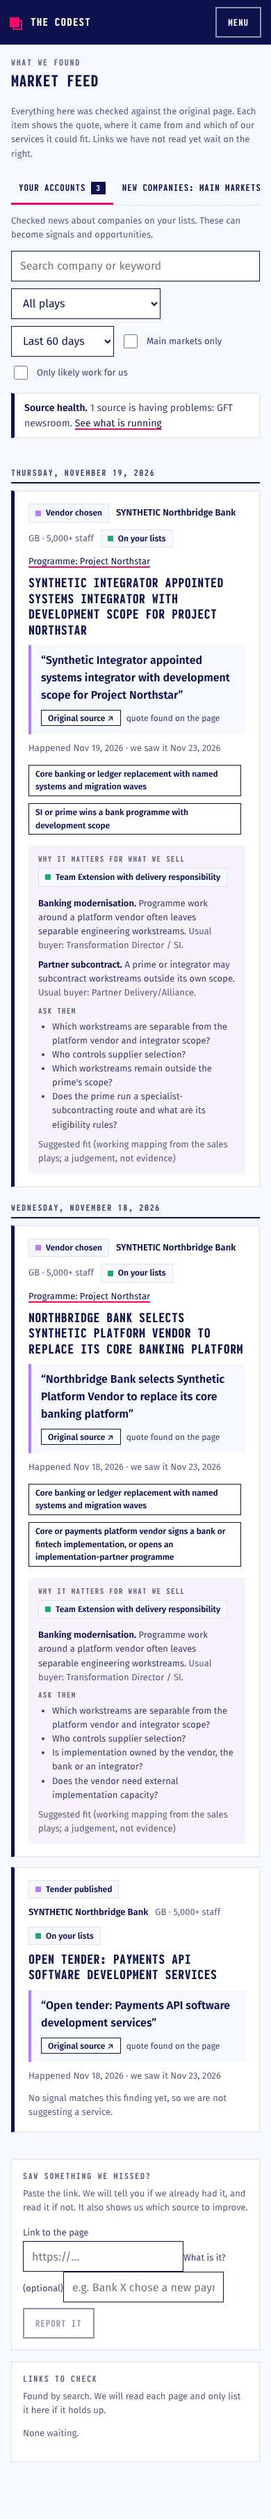
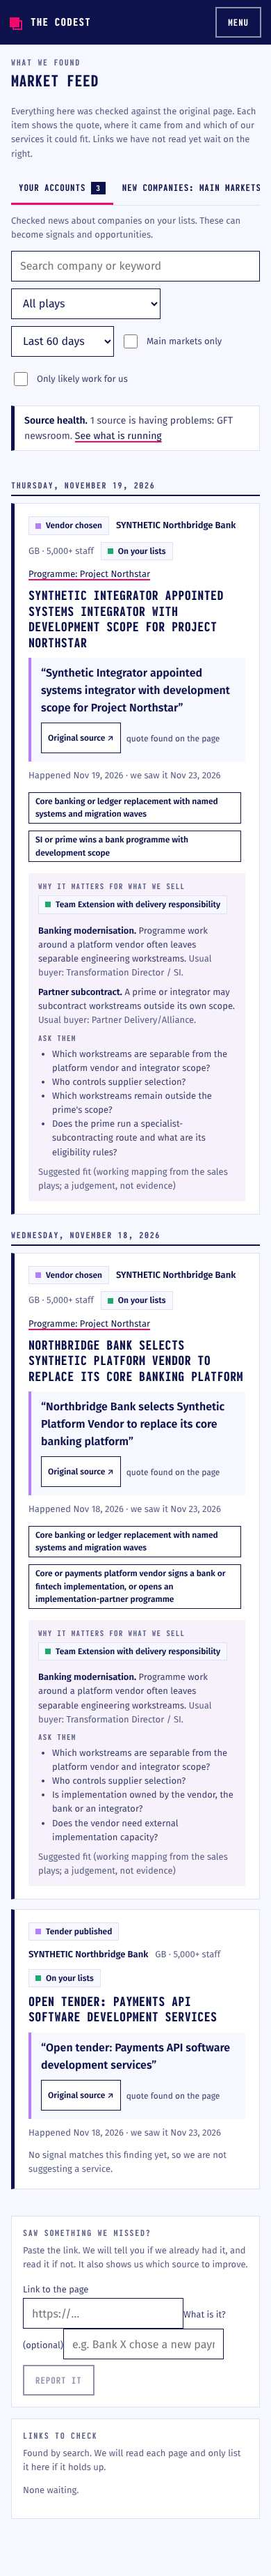
frontend: phone layout, 44px targets, quieter polling, Feed de-duplication
- Tables under 640px become stacked cards with labelled rows (Accounts, Today hot accounts
  and deadlines, Renewals suppliers); the old column-hiding rules are gone.
- Checkbox, star, chips, pills, tabs and sub-nav links have 44px hit areas on phone.
- Polling pauses while the browser tab is hidden.
- Feed shows the quote once when it repeats the headline.
- Today loading state reserves the hero height (layout shift 0.13 -> 0.04).
Build and type-check pass.

Claude-Session: https://claude.ai/code/session_01NLtKuu7bmFR7Yku9N5QKAP

diff --git a/frontend/src/pages/Accounts.tsx b/frontend/src/pages/Accounts.tsx
@@ -92,17 +92,17 @@ export function Accounts({ me }: { me?: { permissions: string[] } }) {
         <select id="lead-sort" aria-label="Sort" value={f.sort} onChange={(e) => set("sort", e.target.value)}><option value="score">Highest score</option><option value="recent">Latest signal</option><option value="size">Largest</option><option value="name">Name</option></select>
       </div>
       <Err e={err} />
-      <div className="card table-wrap flush"><table className="leads-table"><thead><tr><th><span className="sr">Select</span></th><th><span className="sr">Watch</span></th><th>Company</th><th>Region</th><th>Size</th><th title="Adds up recent checked signals. Different kinds count for more than repeats. Hot is 9 or more, warm 4 or more. It is not a probability.">Signal score</th><th>Signals</th><th>Latest signal</th><th>Came from</th></tr></thead><tbody>
+      <div className="card table-wrap flush"><table className="leads-table cards"><thead><tr><th><span className="sr">Select</span></th><th><span className="sr">Watch</span></th><th>Company</th><th>Region</th><th>Size</th><th title="Adds up recent checked signals. Different kinds count for more than repeats. Hot is 9 or more, warm 4 or more. It is not a probability.">Signal score</th><th>Signals</th><th>Latest signal</th><th>Came from</th></tr></thead><tbody>
         {d?.items.map((r: any) => <tr key={r.id}>
-          <td><input type="checkbox" aria-label={`Select ${r.name}`} checked={sel.has(r.id)} onChange={() => toggle(r.id)} /></td>
-          <td><button className="star" aria-pressed={r.watched} aria-label={r.watched ? `Stop watching ${r.name}` : `Watch ${r.name}`} title={r.watched ? "Watching: we re-read its site, news and jobs every week" : "Watch: re-read its site, news and jobs every week"} onClick={() => toggleWatch(r)}>{r.watched ? "★" : "☆"}</button></td>
-          <td><Link to={`/accounts/${r.id}`}>{r.name}</Link>{r.shortlist && <> <Badge kind="ok">Shortlist</Badge></>}<div className="small muted">{r.segment ?? "Segment not known"}{r.canonical_domain ? ` · ${r.canonical_domain}` : ""}</div></td>
-          <td>{r.country_code ?? "Not known"}<div className="small muted">{d.regions.find((x: any) => x.key === r.region)?.label ?? humanize(r.region)}</div></td>
-          <td>{r.employees?.toLocaleString() ?? "Not known"}{r.employees_uncertain && <> <span title="Estimated headcount" className="small muted">(estimate)</span></>}<div className="small muted">{ICP_NAMES[r.icp] ?? r.icp}</div></td>
-          <td>{r.score !== null ? <><b>{r.score}</b> <Badge kind={BAND[r.band][0]}>{BAND[r.band][1]}</Badge></> : <span className="muted">None</span>}{r.stopped && <div className="small muted" title="Something we found says not to pursue this now. The score stays at zero until it expires.">On hold: a stop signal was found</div>}</td>
-          <td className="small">{r.signal_count ? <>{r.signal_count} · {r.groups.map(groupName).join(", ")}</> : <span className="muted">None yet</span>}</td>
-          <td className="small">{r.last_signal_at ? fmtDate(r.last_signal_at) : <span className="muted">None</span>}</td>
-          <td className="small">{d.origins[r.origin]}{r.candidate_status === "pending_qualification" && <div className="row gap-2 mt-1"><span className="muted">Found by us. Add it?</span>{can("research.request") && <><button className="chip" onClick={() => decide(r, "qualify")}>Add to accounts</button><button className="chip" onClick={() => decide(r, "reject")}>Not a fit</button></>}</div>}{r.candidate_status === "qualified" && <div><Badge kind="ok">Added</Badge></div>}</td></tr>)}
+          <td className="sel"><label className="hit44"><input type="checkbox" aria-label={`Select ${r.name}`} checked={sel.has(r.id)} onChange={() => toggle(r.id)} /></label></td>
+          <td className="sel"><button className="star hit44" aria-pressed={r.watched} aria-label={r.watched ? `Stop watching ${r.name}` : `Watch ${r.name}`} title={r.watched ? "Watching: we re-read its site, news and jobs every week" : "Watch: re-read its site, news and jobs every week"} onClick={() => toggleWatch(r)}>{r.watched ? "★" : "☆"}</button></td>
+          <td className="name"><Link to={`/accounts/${r.id}`}>{r.name}</Link>{r.shortlist && <> <Badge kind="ok">Shortlist</Badge></>}<div className="small muted">{r.segment ?? "Segment not known"}{r.canonical_domain ? ` · ${r.canonical_domain}` : ""}</div></td>
+          <td data-label="Region">{r.country_code ?? "Not known"}<div className="small muted">{d.regions.find((x: any) => x.key === r.region)?.label ?? humanize(r.region)}</div></td>
+          <td data-label="Size">{r.employees?.toLocaleString() ?? "Not known"}{r.employees_uncertain && <> <span title="Estimated headcount" className="small muted">(estimate)</span></>}<div className="small muted">{ICP_NAMES[r.icp] ?? r.icp}</div></td>
+          <td data-label="Signal score">{r.score !== null ? <><b>{r.score}</b> <Badge kind={BAND[r.band][0]}>{BAND[r.band][1]}</Badge></> : <span className="muted">None</span>}{r.stopped && <div className="small muted" title="Something we found says not to pursue this now. The score stays at zero until it expires.">On hold: a stop signal was found</div>}</td>
+          <td data-label="Signals" className="small">{r.signal_count ? <>{r.signal_count} · {r.groups.map(groupName).join(", ")}</> : <span className="muted">None yet</span>}</td>
+          <td data-label="Latest signal" className="small">{r.last_signal_at ? fmtDate(r.last_signal_at) : <span className="muted">None</span>}</td>
+          <td data-label="Came from" className="small">{d.origins[r.origin]}{r.candidate_status === "pending_qualification" && <div className="row gap-2 mt-1"><span className="muted">Found by us. Add it?</span>{can("research.request") && <><button className="chip" onClick={() => decide(r, "qualify")}>Add to accounts</button><button className="chip" onClick={() => decide(r, "reject")}>Not a fit</button></>}</div>}{r.candidate_status === "qualified" && <div><Badge kind="ok">Added</Badge></div>}</td></tr>)}
         {d && d.items.length === 0 && <tr><td colSpan={9} className="muted">No accounts match these filters. Try clearing some.{d.facets && Object.values(d.facets.origin ?? {}).length === 0 ? " There are no accounts yet: load the workbooks in Administration, Imports, or add a company." : ""}</td></tr>}</tbody></table></div>
       {d && <div className="row spread small mt-3"><span>{d.total.toLocaleString()} {d.total === 1 ? "account" : "accounts"}</span>
         <span className="row"><button disabled={f.page <= 1} onClick={() => setF({ ...f, page: f.page - 1 })}>Previous</button><span>Page {f.page} of {pages}</span><button disabled={f.page >= pages} onClick={() => setF({ ...f, page: f.page + 1 })}>Next</button></span></div>}
@@ -227,11 +227,11 @@ export function Account({ me }: { me: { permissions: string[] } }) {
   const [briefs, setBriefs] = useState<any[]>([]);
   const loadBriefs = () => api(`/api/accounts/${id}/briefs`).then((r) => setBriefs(r.items)).catch(() => setBriefs([]));
   useEffect(() => { loadBriefs(); }, [id]);
-  useEffect(() => { if (!briefs.some((b) => b.status === "queued" || b.status === "running")) return; const t = setInterval(loadBriefs, 6000); return () => clearInterval(t); }, [briefs]);
+  useEffect(() => { if (!briefs.some((b) => b.status === "queued" || b.status === "running")) return; const t = setInterval(() => { if (!document.hidden) loadBriefs(); }, 6000); return () => clearInterval(t); }, [briefs]);
   const [camps, setCamps] = useState<any>({ items: [] });
   const loadCamps = () => api(`/api/accounts/${id}/campaigns`).then(setCamps).catch(() => setCamps({ items: [] }));
   useEffect(() => { loadCamps(); }, [id]);
-  useEffect(() => { if (!camps.items.some((b: any) => b.status === "queued" || b.status === "running")) return; const t = setInterval(loadCamps, 6000); return () => clearInterval(t); }, [camps]);
+  useEffect(() => { if (!camps.items.some((b: any) => b.status === "queued" || b.status === "running")) return; const t = setInterval(() => { if (!document.hidden) loadCamps(); }, 6000); return () => clearInterval(t); }, [camps]);
   if (err) return <><p className="small mt-0"><Link to="/accounts">Accounts</Link></p><Err e={err} onRetry={reloadPage} /></>;
   if (!d) return <><p className="small mt-0"><Link to="/accounts">Accounts</Link></p><Skeleton rows={4} label="Loading the account" /></>;
   const a = d.account;

diff --git a/frontend/src/pages/Today.tsx b/frontend/src/pages/Today.tsx
@@ -14,9 +14,9 @@ function Deadlines() {
   useEffect(() => { api("/api/deadlines").then((r) => setItems(r.items.filter((x: any) => x.days_left <= 240).slice(0, 6))).catch(() => setItems([])); }, []);
   if (!items.length) return null;
   return <section><div className="section-title">Regulation deadlines</div><p className="small muted sec-note">Each date was checked against an official page and approved by a second person. Buyers facing a hard deadline tend to need extra delivery capacity.</p>
-    <div className="card flush table-wrap"><table><thead><tr><th>Deadline</th><th>Regulation</th><th>Who it applies to</th><th>Date</th></tr></thead><tbody>
-      {items.map((x) => <tr key={x.id}><td><a href={x.source_url} target="_blank" rel="noreferrer noopener">{x.title}</a></td><td className="small">{x.regime}</td><td className="small">{x.applies_to ?? "Not specified"}</td>
-        <td><b>{fmtDate(x.deadline_date)}</b> <span className="small muted">in {x.days_left} days</span></td></tr>)}
+    <div className="card flush table-wrap"><table className="cards"><thead><tr><th>Deadline</th><th>Regulation</th><th>Who it applies to</th><th>Date</th></tr></thead><tbody>
+      {items.map((x) => <tr key={x.id}><td><a href={x.source_url} target="_blank" rel="noreferrer noopener">{x.title}</a></td><td data-label="Regulation" className="small">{x.regime}</td><td data-label="Who it applies to" className="small">{x.applies_to ?? "Not specified"}</td>
+        <td data-label="Date"><b>{fmtDate(x.deadline_date)}</b> <span className="small muted">in {x.days_left} days</span></td></tr>)}
     </tbody></table></div></section>;
 }
 
@@ -114,8 +114,8 @@ export default function Today() {
   const [err, setErr] = useState<unknown>(null);
   const load = () => { setErr(null); return api("/api/today").then(setD).catch(setErr); };
   useEffect(() => { load(); api("/api/overview").then(setOv).catch(() => undefined); }, []);
-  if (err) return <div className="page"><div className="page-head"><div className="eyebrow">Your day</div><h1>Today</h1></div><Err e={err} onRetry={load} /></div>;
-  if (!d) return <div className="page"><div className="page-head"><div className="eyebrow">Your day</div><h1>Today</h1></div><Skeleton rows={4} label="Loading Today" /></div>;
+  if (err) return <><header className="hero"><div className="eyebrow">Your day</div><h1>Today</h1></header><div className="page pt-5"><Err e={err} onRetry={load} /></div></>;
+  if (!d) return <><header className="hero loading"><div className="eyebrow">Your day</div><h1>Today</h1></header><div className="page pt-5"><Skeleton rows={4} label="Loading Today" /></div></>;
   const all: any[] = Object.values(d.sections).flat() as any[];
   const count = (f: (c: any) => boolean) => all.filter(f).length;
   return (
@@ -134,7 +134,7 @@ export default function Today() {
         {d.count > 0 && <Coverage c={d.coverage} empty={d.empty_state} />}
         {d.count === 0 && <Setup ov={ov} reason={d.empty_state} />}
         {d.hot_accounts?.length > 0 && <section><div className="section-title">Hot accounts</div><p className="small muted sec-note">Accounts with the strongest recent signals. Score adds up checked signals; different kinds count for more than repeats. It is not a probability.</p>
-          <div className="card flush table-wrap"><table><thead><tr><th>Account</th><th title="Adds up recent checked signals. Different kinds count for more than repeats. Hot is 9 or more, warm 4 or more. It is not a probability.">Signal score</th><th>Signals</th><th>Latest</th></tr></thead><tbody>
+          <div className="card flush table-wrap"><table className="cards"><thead><tr><th>Account</th><th title="Adds up recent checked signals. Different kinds count for more than repeats. Hot is 9 or more, warm 4 or more. It is not a probability.">Signal score</th><th>Signals</th><th>Latest</th></tr></thead><tbody>
             {d.hot_accounts.map((a: any) => <tr key={a.id}><td><Link to={`/accounts/${a.id}`}>{a.display_name}</Link><div className="small muted">{[a.country_code, a.segment].filter(Boolean).join(" · ")}</div></td>
               <td><b>{a.score}</b> <Badge kind={a.band === "hot" ? "bad" : "warn"}>{a.band === "hot" ? "Hot" : "Warm"}</Badge></td>
               <td className="small">{a.signal_count} · {a.groups.map(groupName).join(", ")}</td><td className="small">{a.last_signal_at ? fmtDate(a.last_signal_at) : "None yet"}</td></tr>)}

diff --git a/frontend/design-system/components.css b/frontend/design-system/components.css
@@ -370,3 +370,26 @@ button.star { border: 0; background: none; padding: 4px 6px; min-height: 0; font
 .progr .opp { margin: 0; border: 0; border-top: 1px solid var(--line); border-left: 5px solid var(--line); }
 .progr .opp.urgent { border-left-color: var(--pink); } .progr .opp.high { border-left-color: var(--navy); } .progr .opp.medium { border-left-color: var(--purple); }
 .opp.compact .opp-title { font-size: var(--fs-lg); }
+
+/* ---------- phone: tables become cards, small targets get a 44px hit area ---------- */
+.hit44 { display: inline-grid; place-items: center; min-width: 24px; min-height: 24px; }
+@media (max-width: 640px) {
+  .hit44, button.star.hit44 { width: 44px; height: 44px; min-height: 44px; padding: 0; }
+  table.cards { display: block; overflow: visible; background: transparent; }
+  table.cards thead { position: absolute; width: 1px; height: 1px; overflow: hidden; clip: rect(0 0 0 0); }
+  table.cards tbody { display: block; }
+  table.cards tr { display: grid; grid-template-columns: auto auto minmax(0, 1fr); align-items: center; padding: var(--space-3) var(--space-4); border-bottom: 1px solid var(--line); background: var(--white); }
+  table.cards td { display: block; grid-column: 1 / -1; padding: var(--space-1) 0; border: 0; white-space: normal !important; word-break: normal; overflow-wrap: anywhere; }
+  table.cards td[data-label]::before { content: attr(data-label); display: block; font: 800 var(--fs-label) var(--font-head); letter-spacing: .1em; text-transform: uppercase; color: var(--muted); }
+  table.cards td.sel { grid-column: auto; }
+  table.cards td.name { grid-column: 3; }
+  table.cards tbody tr:hover td { background: transparent; }
+  .chip { min-height: 44px; }
+  a.pill { min-height: 44px; }
+  label.row { min-height: 44px; }
+  .tabs button, .tabs a { min-height: 44px; }
+  .subnav a { min-height: 44px; }
+}
+
+.hero.loading { min-height: 300px; }
+@media (max-width: 860px) { .hero.loading { min-height: 250px; } }

diff --git a/frontend/src/pages/Renewals.tsx b/frontend/src/pages/Renewals.tsx
@@ -51,8 +51,8 @@ export default function Renewals() {
       ) : (
         <>
           <p className="small muted">Who won the most public IT contracts in our markets over the last three years. A supplier with many wins is a strong incumbent, and often a competitor or a partner worth knowing.</p>
-          <div className="card table-wrap"><table><thead><tr><th>Supplier</th><th>Contracts won</th><th>Countries</th><th>Latest win</th></tr></thead><tbody>
-            {d.items.map((r: any) => <tr key={r.supplier}><td>{r.supplier}{r.size && <div className="small muted">{SIZE[r.size] ?? r.size}</div>}</td><td>{r.awards}</td><td className="small">{r.countries.map((c: string) => COUNTRY[c] ?? c).join(", ")}</td><td className="small">{fmtDate(r.latest)}</td></tr>)}
+          <div className="card table-wrap"><table className="cards"><thead><tr><th>Supplier</th><th>Contracts won</th><th>Countries</th><th>Latest win</th></tr></thead><tbody>
+            {d.items.map((r: any) => <tr key={r.supplier}><td>{r.supplier}{r.size && <div className="small muted">{SIZE[r.size] ?? r.size}</div>}</td><td data-label="Contracts won">{r.awards}</td><td className="small" data-label="Countries">{r.countries.map((c: string) => COUNTRY[c] ?? c).join(", ")}</td><td className="small" data-label="Latest win">{fmtDate(r.latest)}</td></tr>)}
             {d.items.length === 0 && <tr><td colSpan={4} className="muted">No suppliers yet. The contract history is still loading.</td></tr>}</tbody></table></div>
         </>
       )}

diff --git a/frontend/src/pages/Feed.tsx b/frontend/src/pages/Feed.tsx
@@ -63,7 +63,7 @@ export default function Feed() {
                     <p className="small mt-1 mb-0">{it.why.reason}</p>
                   </div>}
                   {it.evidence.map((e: any) => (
-                    <blockquote key={e.claim_id} className="fquote">“{e.claim}”{e.translation && <span className="trans">In English{it.language && it.language !== "en" ? ` (from ${LANG[it.language] ?? it.language})` : ""}: “{e.translation}”</span>}
+                    <blockquote key={e.claim_id} className="fquote">{e.claim !== (it.summary_en ?? it.summary) && <>“{e.claim}”</>}{e.translation && <span className="trans">In English{it.language && it.language !== "en" ? ` (from ${LANG[it.language] ?? it.language})` : ""}: “{e.translation}”</span>}
                       <cite>{e.url ? <a className="pill" href={e.url} target="_blank" rel="noreferrer noopener" onClick={() => it.organization && trackSourceOpened({ organization_id: it.organization.id, where: "evidence" })}>{e.source ?? "Original source"} ↗</a> : "Structured record"}
                         {[e.authority ? TIER[e.authority] ?? e.authority : null, e.anchor_verified ? "quote found on the page" : "quote not matched"].filter(Boolean).join(" · ")}</cite></blockquote>))}
                   <div className="small muted">Happened {fmtDate(it.event_at)} · we saw it {fmtDate(it.first_seen)}</div>

diff --git a/frontend/src/components.css b/frontend/src/components.css
@@ -10,18 +10,10 @@
 .why .k { display: inline-block; margin-right: 8px; font-weight: 600; font-size: var(--fs-sm); }
 .fquote .trans { display: block; margin-top: 6px; font-style: normal; font-size: var(--fs-sm); color: var(--muted); }
 
-/* phone: saved views scroll sideways instead of filling the first screen; the leads table keeps the columns that matter and never breaks names mid-word */
+/* phone: saved views scroll sideways instead of filling the first screen */
 @media (max-width: 640px) {
-  .chips-scroll { flex-wrap: nowrap; overflow-x: auto; -webkit-overflow-scrolling: touch; padding-bottom: 4px; }
+  .chips-scroll { flex-wrap: nowrap; overflow-x: auto; -webkit-overflow-scrolling: touch; padding-bottom: var(--space-1); }
   .chips-scroll > * { flex: 0 0 auto; }
-  .leads-table th:nth-child(4), .leads-table td:nth-child(4),
-  .leads-table th:nth-child(5), .leads-table td:nth-child(5),
-  .leads-table th:nth-child(7), .leads-table td:nth-child(7),
-  .leads-table th:nth-child(8), .leads-table td:nth-child(8),
-  .leads-table th:nth-child(9), .leads-table td:nth-child(9) { display: none; }
-  .leads-table td { word-break: normal; overflow-wrap: normal; }
-  .leads-table td:nth-child(3) { min-width: 150px; }
-  .leads-table td:nth-child(6) { white-space: nowrap; }
 }
 
 .stack { display: grid; gap: 12px; margin-top: 6px; }

diff --git a/frontend/src/pages/Prospects.tsx b/frontend/src/pages/Prospects.tsx
@@ -29,7 +29,7 @@ export default function Prospects() {
     return () => clearTimeout(t);
   }, [lane, q, tick]);
   const busy = d?.items.some((i: any) => ["queued", "fetching", "extracting"].includes(i.verification?.status));
-  useEffect(() => { if (!busy) return; const t = setInterval(() => setTick((n) => n + 1), 6000); return () => clearInterval(t); }, [busy]);
+  useEffect(() => { if (!busy) return; const t = setInterval(() => { if (!document.hidden) setTick((n) => n + 1); }, 6000); return () => clearInterval(t); }, [busy]);
   const verify = async (id: string) => { setErr(null); try { await post("/api/prospects/verify", { organization_id: id }); setTick((n) => n + 1); } catch (e) { setErr(e); } };
   const batch = async () => { setErr(null); try { const r = await post("/api/prospects/verify-batch", { lane, limit: 10 }); setMsg(`${r.queued} ${r.queued === 1 ? "page" : "pages"} queued. Each check reads one page and uses some of the monthly AI budget.`); setTick((n) => n + 1); } catch (e) { setErr(e); } };
   return (

diff --git a/frontend/src/pages/Pipeline.tsx b/frontend/src/pages/Pipeline.tsx
@@ -8,7 +8,7 @@ const vk = (s: string) => (s === "verified" ? "ok" : s === "failed" || s === "bl
 export function Verification() {
   const [d, setD] = useState<any>(null); const [err, setErr] = useState<unknown>(null); const [status, setStatus] = useState(""); const [origin, setOrigin] = useState("");
   const load = () => api(`/api/verifications?status=${status}&origin=${origin}&limit=100`).then(setD).catch(setErr);
-  useEffect(() => { load(); const t = setInterval(load, 10000); return () => clearInterval(t); }, [status, origin]);
+  useEffect(() => { load(); const t = setInterval(() => { if (!document.hidden) load(); }, 10000); return () => clearInterval(t); }, [status, origin]);
   return (
     <>
       <p className="small muted mt-0">Each row is a page we were asked to check, from your workbooks or from a search. We read the original page, pull out events with word-for-word quotes, and keep only those whose quote is really on the page.</p>

diff --git a/frontend/src/pages/Admin.tsx b/frontend/src/pages/Admin.tsx
@@ -243,7 +243,7 @@ const Quality = () => <Load path="/api/admin/metrics">{(d) => <><p className="su
 function Imports() {
   const [d, setD] = useState<any>(null); const [err, setErr] = useState<unknown>(null); const [busy, setBusy] = useState(false); const [msg, setMsg] = useState("");
   const load = () => api("/api/admin/imports").then(setD).catch(setErr);
-  useEffect(() => { load(); const t = setInterval(load, 8000); return () => clearInterval(t); }, []);
+  useEffect(() => { load(); const t = setInterval(() => { if (!document.hidden) load(); }, 8000); return () => clearInterval(t); }, []);
   const send = async (f: File | undefined) => {
     if (!f) return; setBusy(true); setErr(null); setMsg("");
     try { const r = await upload("/api/admin/import/upload", f); setMsg(`Workbook ${r.workbook} received. It is being loaded now, which can take several minutes.`); load(); } catch (e) { setErr(e); } finally { setBusy(false); }

diff --git a/frontend/src/pages/PipelineStatus.tsx b/frontend/src/pages/PipelineStatus.tsx
@@ -28,7 +28,7 @@ function Funnel({ f, accounts, candidates }: { f: any[]; accounts: number; candi
 export function Pipeline() {
   const [d, setD] = useState<any>(null); const [err, setErr] = useState<unknown>(null);
   const load = () => api("/api/admin/pipeline").then(setD).catch(setErr);
-  useEffect(() => { load(); const t = setInterval(load, 15000); return () => clearInterval(t); }, []);
+  useEffect(() => { load(); const t = setInterval(() => { if (!document.hidden) load(); }, 15000); return () => clearInterval(t); }, []);
   if (err) return <Err e={err} onRetry={reloadPage} />;
   if (!d) return <Skeleton />;
   return (
